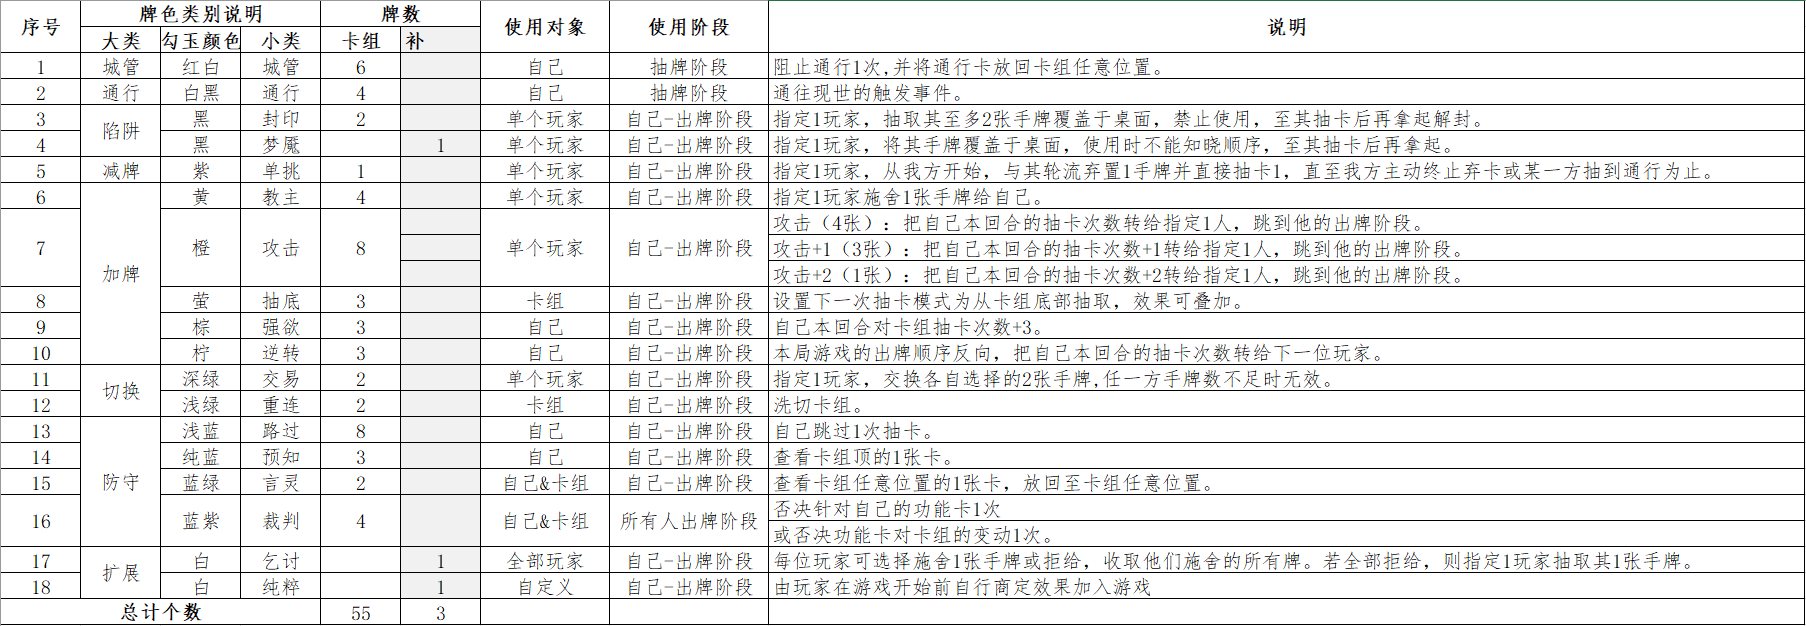
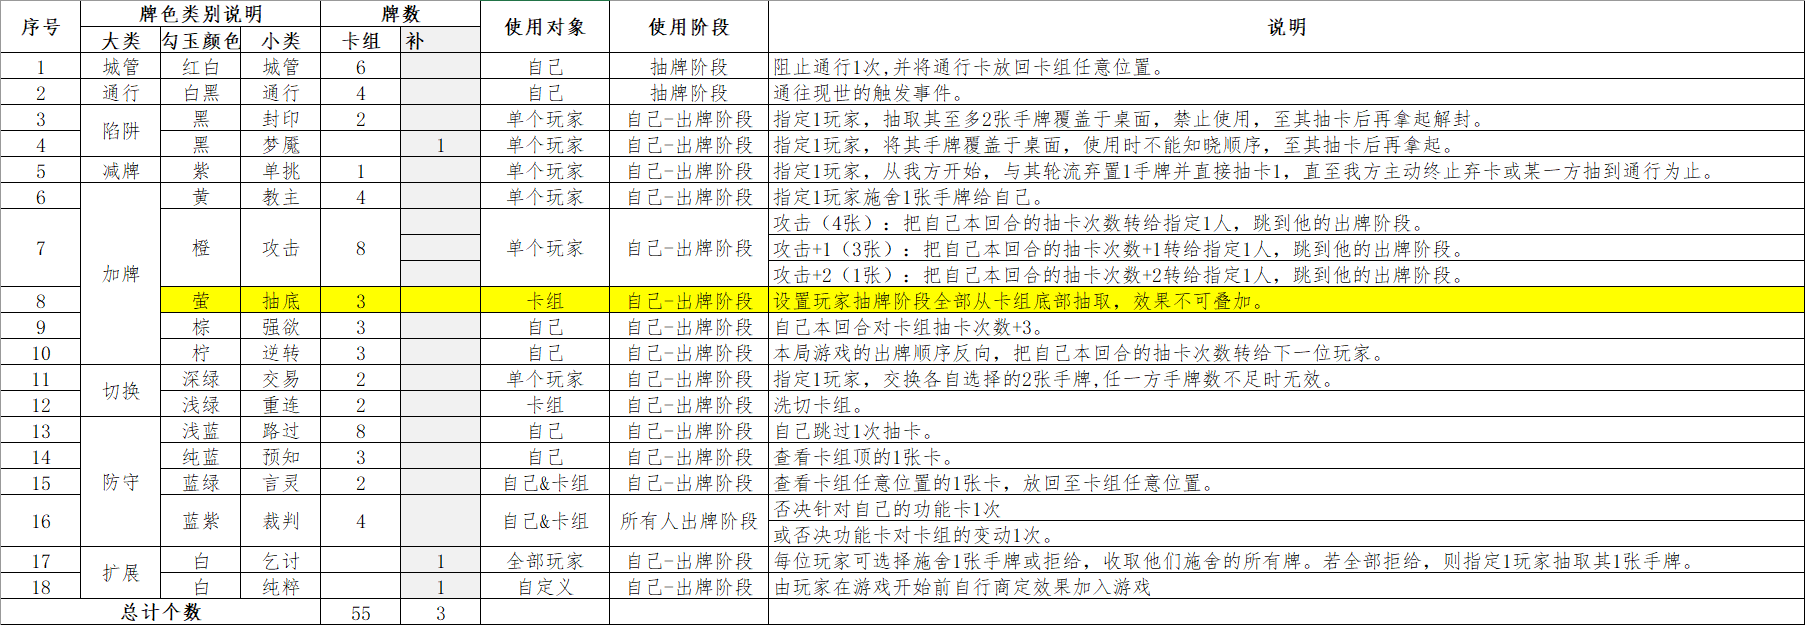
update

diff --git a/_posts/2021-05-05-xstx-rules-4.3.8.md b/_posts/2021-05-05-xstx-rules-4.3.8.md
@@ -172,7 +172,7 @@ green {color: green}
 
 
 ### 二上優、图钉
-1. 抽底卡不仅可对自己使用，也可以指定其他玩家，使其他玩家在抽牌阶段全部抽底。
+1. 抽底卡不仅可对自己使用，也可以指定其他玩家，使其他玩家在其抽牌阶段全部抽底。
 
 ## 卡牌介绍
 
